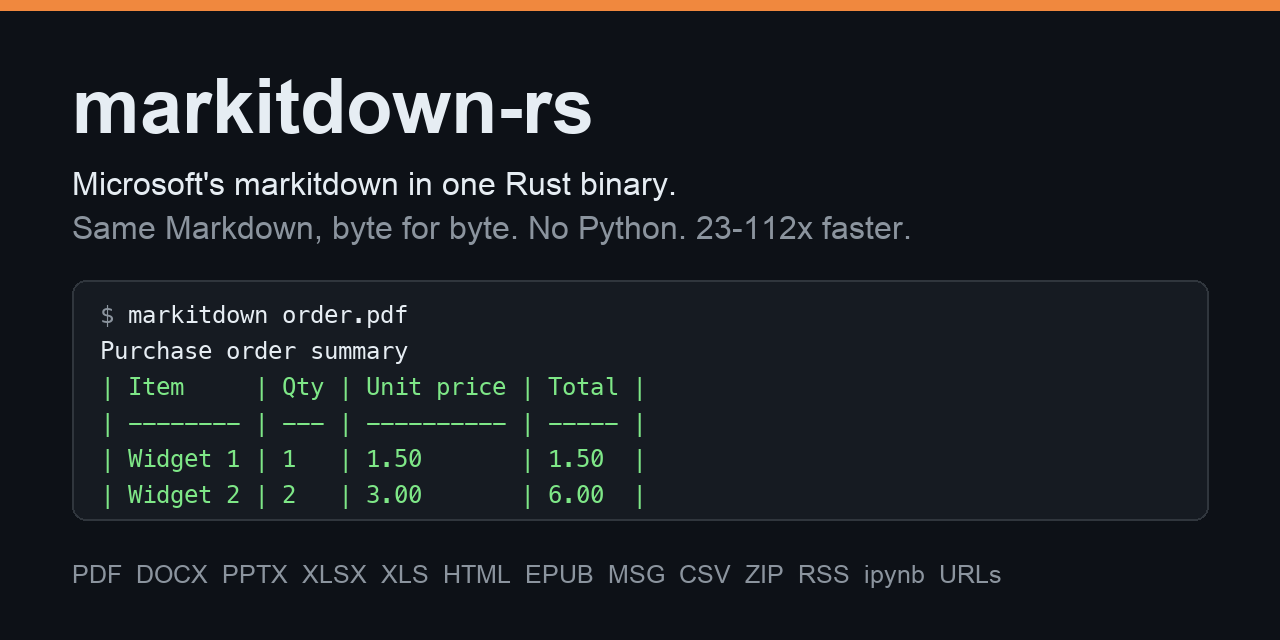
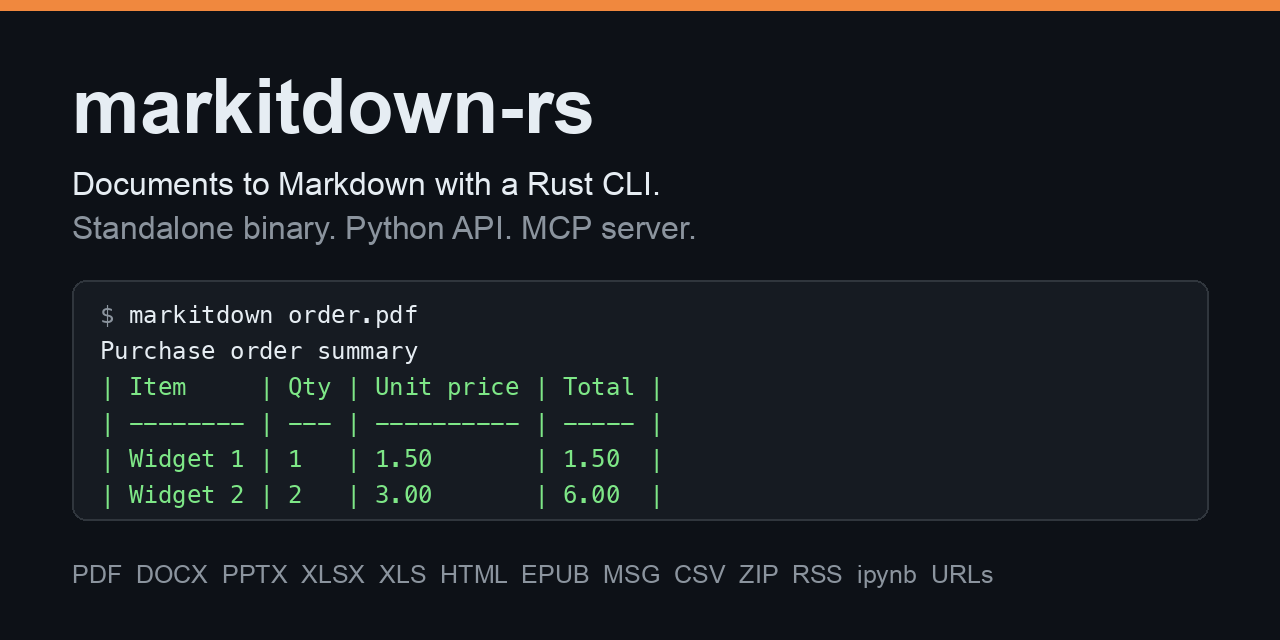
docs: qualify document conversion social preview

diff --git a/scripts/gen_social_preview.py b/scripts/gen_social_preview.py
@@ -22,8 +22,8 @@ img = Image.new("RGB", (W, H), BG)
 d = ImageDraw.Draw(img)
 d.rectangle([0, 0, W, 10], fill=ACCENT)
 d.text((72, 64), "markitdown-rs", font=sans_bold, fill=FG)
-d.text((72, 166), "Microsoft's markitdown in one Rust binary.", font=sans, fill=FG)
-d.text((72, 210), "Same Markdown, byte for byte. No Python. 23-112x faster.", font=sans, fill=DIM)
+d.text((72, 166), "Documents to Markdown with a Rust CLI.", font=sans, fill=FG)
+d.text((72, 210), "Standalone binary. Python API. MCP server.", font=sans, fill=DIM)
 
 box = [72, 280, W - 72, 520]
 d.rounded_rectangle(box, radius=14, fill=CODE_BG, outline="#30363d", width=2)
